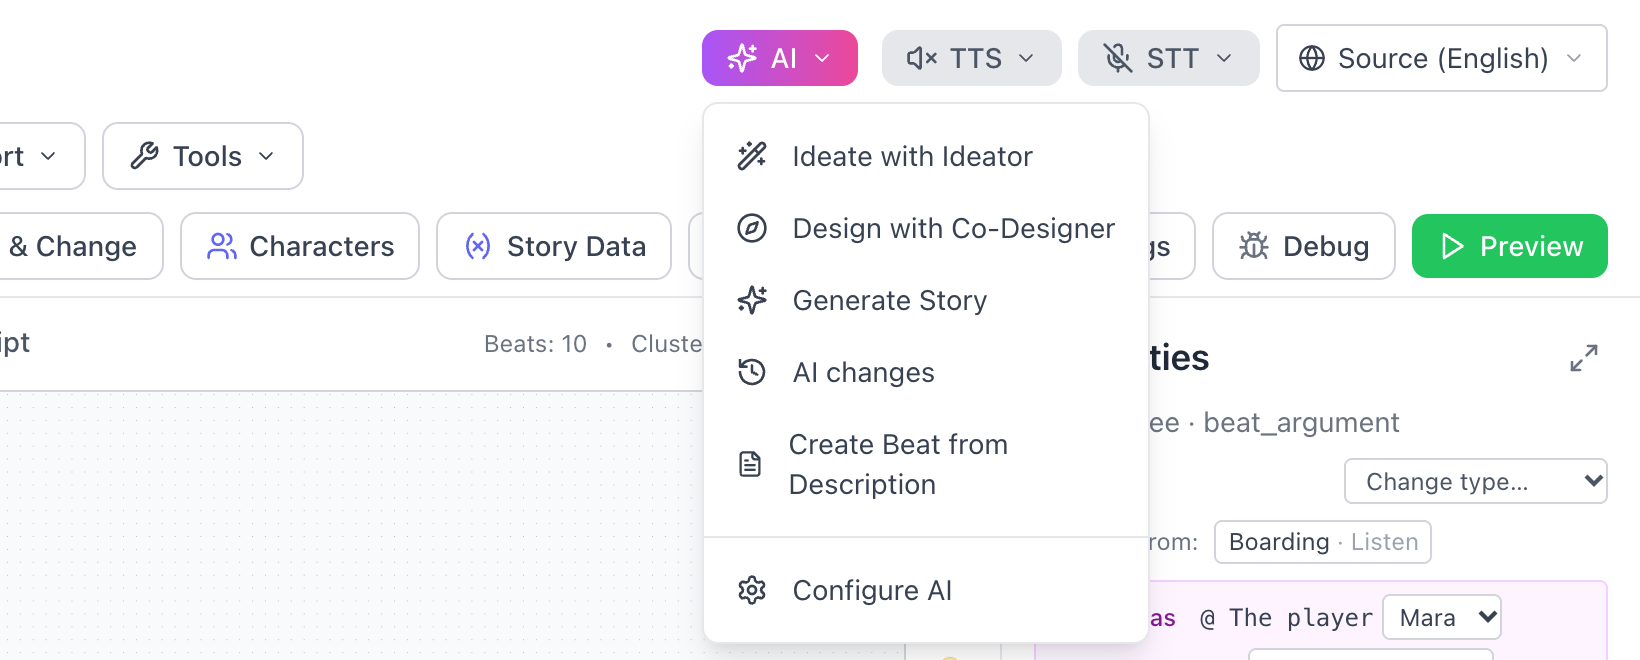
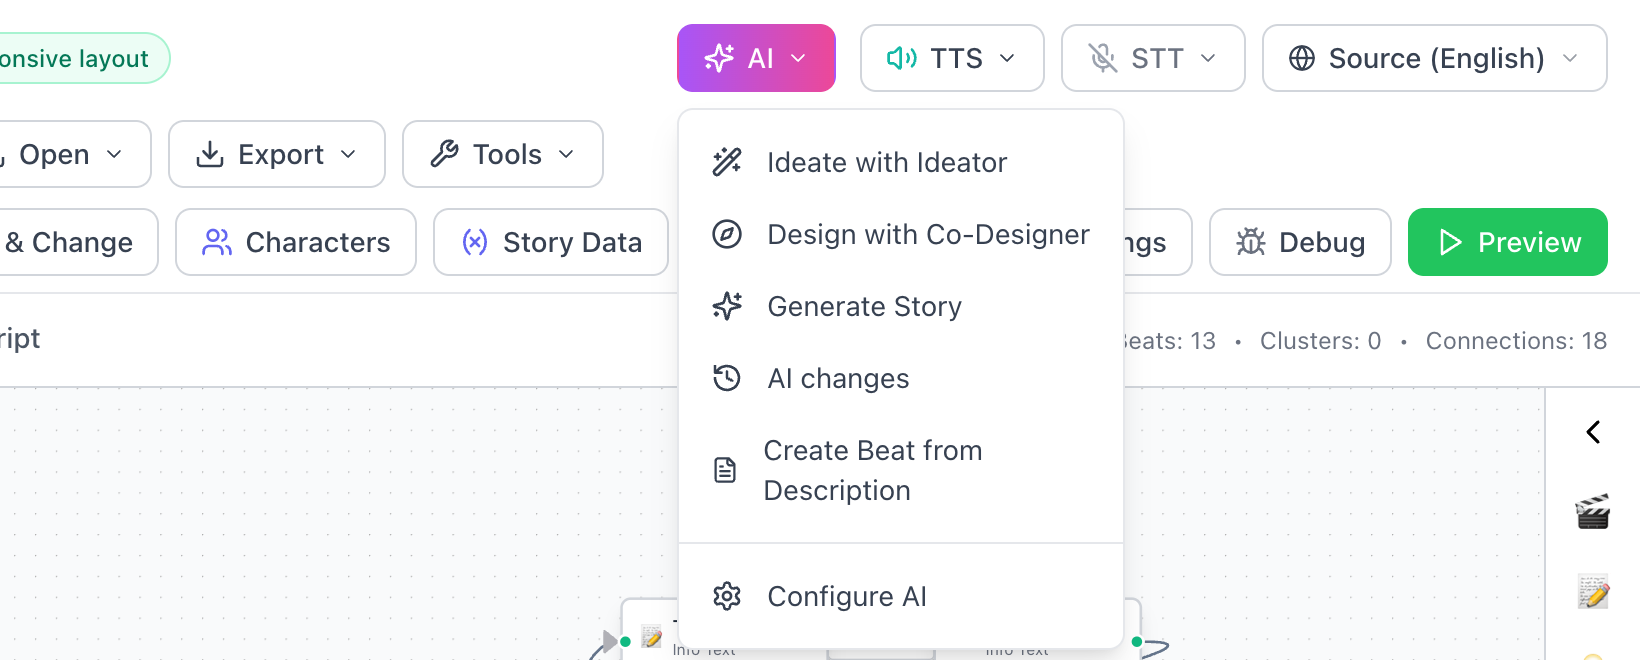
docs: User Guide screenshots retaken for v0.9.165 (main window, AI menu, restart link, which-output menu), a picture of the link-drop menu, and the guide's version line

diff --git a/docs/USER_GUIDE.md b/docs/USER_GUIDE.md
@@ -2,7 +2,7 @@
 
 **Your Complete Guide to Building Interactive Narrative Systems**
 
-*Last revised against v0.9.157*
+*Last revised against v0.9.165*
 
 ---
 
@@ -508,6 +508,9 @@ The small count strip above the canvas (**Beats · Clusters · Connections**) co
   With the keyboard: the arrow keys move through the menu, **→** or **Enter** on *New beat* opens the types, **←** or **Escape** closes them again. If the beat you drag from has several ways on, ASAPS then asks which one, just as it does when you drop on a beat. (Cancel at that point and a new beat you just made stays where it is, not linked yet.) A link let go outside the flowchart (over a side panel, say) does nothing.
 - **Every drawn link is one Undo step** (a link to a new beat is two: Undo takes the link back first, then the new beat), and the Properties panel shows it straight away, exactly as if you had picked the target there.
 - A few beat types keep their links in the Properties panel only: AI Condition categories, AR Scene anchors and AI Dialog Tree exits. Drag from one of those and ASAPS tells you so. A beat with nothing to link yet (a Multi Choice without choices, say) asks you to add a choice first.
+
+![A link from "The case" let go over empty space: a menu with New beat (its list of beat types open beside it), a search field, the story's beats and Cancel](images/114-link-drop-menu.png)
+*A link let go over empty space. **New beat** opens the list of beat types; below it, the story's beats to link to, with a search field.*
 
 ![Dragging a link from the Multi Choice "Three ways of seeing" onto "Leaving": a menu asks which of the four choices the link is for, each showing where it leads now](images/97-draw-link-menu.png)
 *Drop a link from a beat with several choices and ASAPS asks which choice it is for. Each row shows where that choice leads now.*
